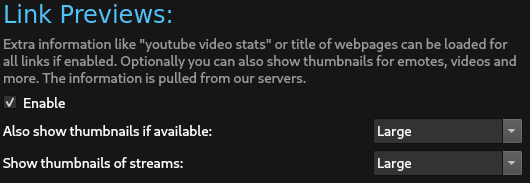
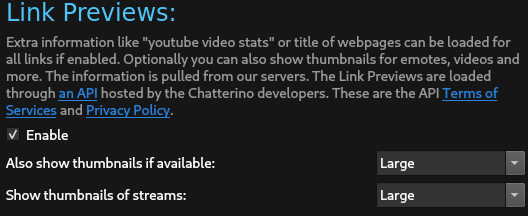
Update Link Previews documentation with legal links + refreshed screenshot (#154)

diff --git a/docs/Link Previews.md b/docs/Link Previews.md
@@ -1,6 +1,12 @@
 Link Previews make it easy to check what's behind a link without visiting the link in the browser.
 All links go through [github.com/chatterino/api](https://github.com/chatterino/api) to protect your IP from any leaks.
 
+# Privacy Policy & Terms of Service
+
+Enabling this feature means your client will send additional data to our API to power this feature.  
+You should read the [Privacy Policy](https://braize.pajlada.com/chatterino/legal/privacy-policy) and [Terms of Service](https://braize.pajlada.com/chatterino/legal/terms-of-service) before enabling this feature.  
+If you have any questions about this, please contact us through the [GitHub repo](https://github.com/Chatterino/chatterino2/issues/new/choose).
+
 # Enabling
 
 By default link previews are disabled. Turn them on under "Link Previews" in the settings.
@@ -10,7 +16,7 @@ Optionally also turn on thumbnails in your preferred size for an even richer lin
 
 # Supported Links
 
-By default chatterino will use [Open Graph](https://ogp.me/) tags to enrich tooltips. 
+By default chatterino will use [Open Graph](https://ogp.me/) tags to enrich tooltips.
 To enhance the tooltips even more, we have custom integrations for the following sites:
 
 - [Betterttv](https://betterttv.com/)
